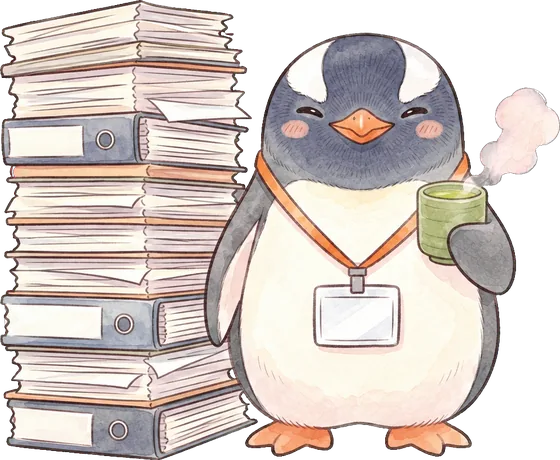
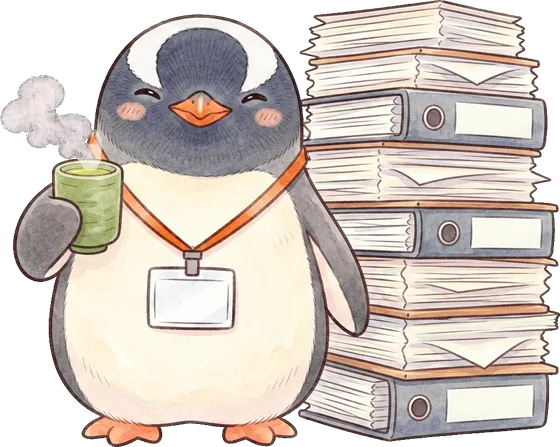
最初の画面の絵と小物を差し替え、OGP画像を足す

diff --git a/style.css b/style.css
@@ -147,7 +147,7 @@ a:focus-visible {
 .prop-1 { left: 2%;  top: 6%;  transform: rotate(-10deg); }
 .prop-2 { right: 30%; top: 0;  width: 14%; }
 .prop-3 { right: 4%; top: 46%; width: 9%; transform: rotate(18deg); }
-.prop-4 { left: -2%; bottom: 30%; width: 15%; transform: rotate(-24deg); }
+.prop-4 { left: -4%; bottom: 12%; width: 14%; transform: rotate(-24deg); }
 .prop-5 { right: 22%; bottom: -2%; width: 11%; }
 
 .hero-name-box { margin-top: 10px; }
@@ -503,12 +503,15 @@ a:focus-visible {
     display: grid;
     grid-template-columns: 1fr 1.15fr;
     grid-template-areas: "en art" "name art";
-    grid-template-rows: auto 1fr;
+    grid-template-rows: 1fr 1fr;
     column-gap: 40px;
-    align-items: end;
   }
-  .hero-en { grid-area: en; align-self: start; }
-  .hero-name-box { grid-area: name; padding-bottom: 48px; }
+  /* 英字・名前・肩書きをひとかたまりにして、絵の高さの中央に置く */
+  .hero-en { grid-area: en; align-self: end; margin-bottom: 14px; }
+  .hero-name-box { grid-area: name; align-self: start; }
+  .hero-name { font-size: 88px; }
+  .hero-handle { font-size: 16px; margin-top: 8px; }
+  .hero-sub .hero-name { font-size: 46px; }
   .hero-art { grid-area: art; max-width: 540px; margin: 0; justify-self: end; width: 100%; }
   .hero-tag { right: calc(var(--gutter) + 8px); top: 4px; }
   .hero-sub .hero-art { max-width: 400px; }
